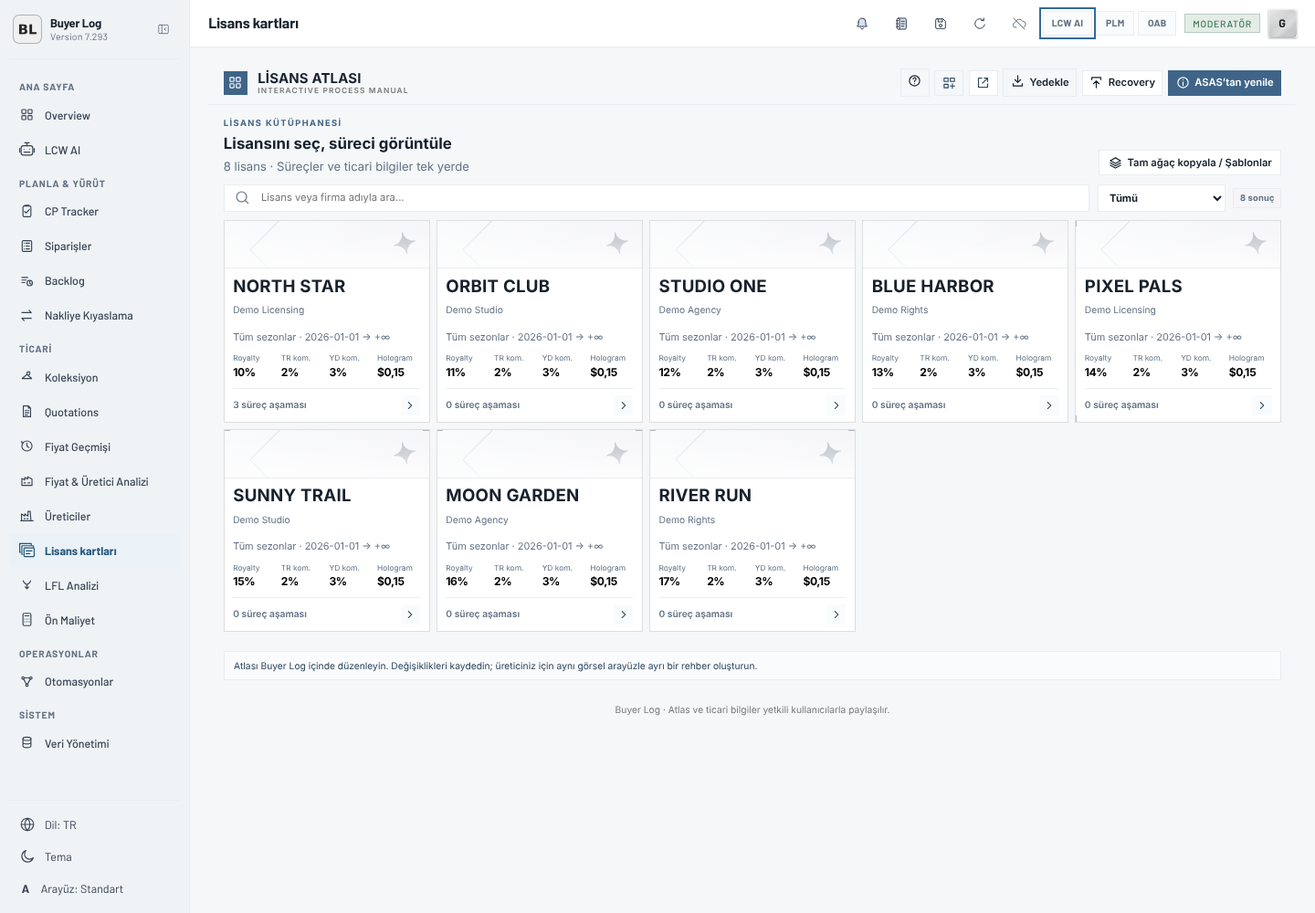
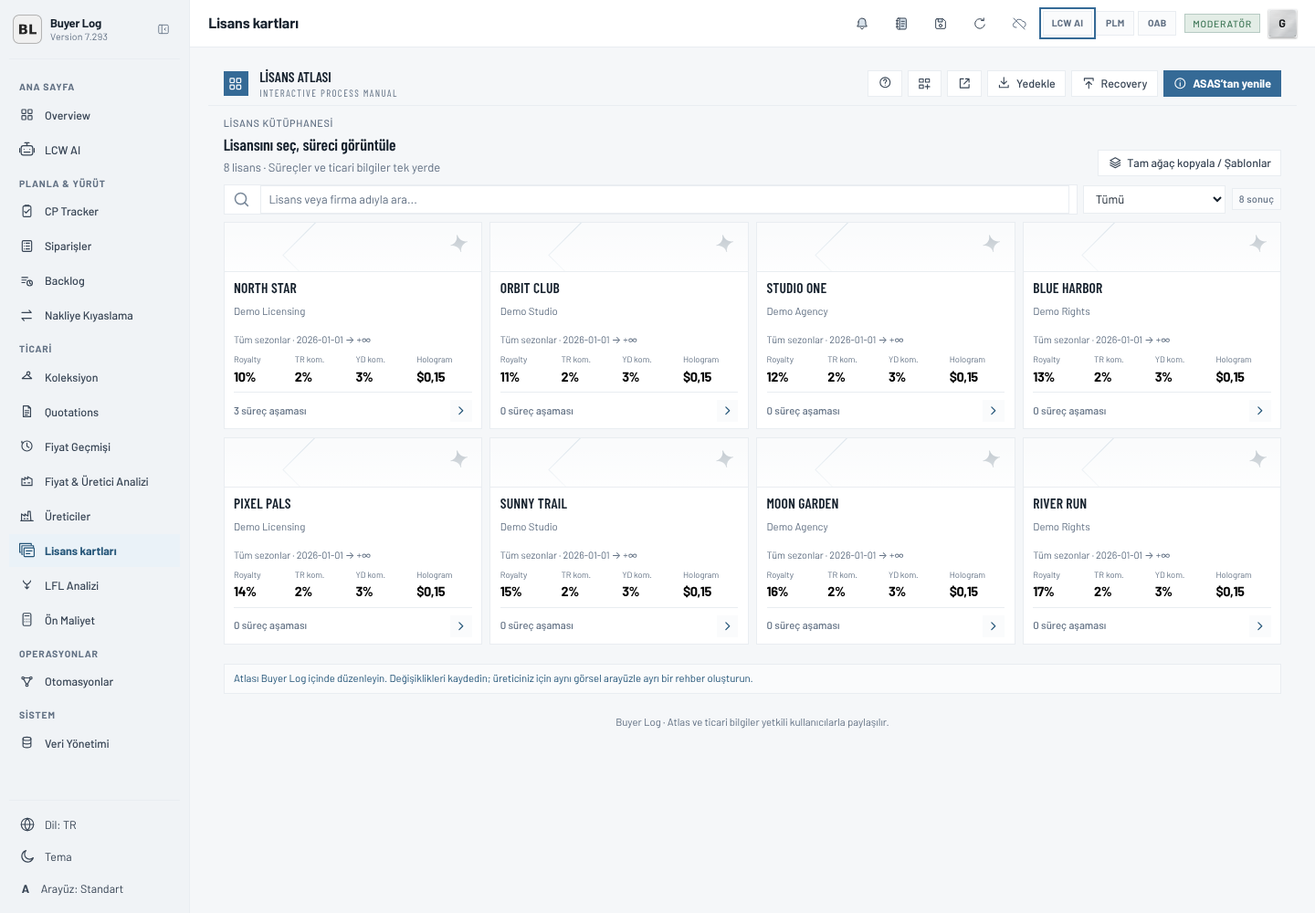
feat(license-atlas): Buyer Log interface for the License Atlas
The uploaded Atlas kept its own typography, oversized controls, heavy
weights and teal/navy colours. It now follows Buyer Log primitives:

- Barlow / Barlow Condensed inlined from design.css @font-face rules
  (sandbox CSP gains font-src data: only).
- Full parent theme tokens passed as --blt-*; surfaces, accents and
  selected states use them in light and dark themes.
- Runtime type scale maps every original font-size/weight rule onto the
  Buyer Log scale (12.5px base, 600 max weight) without forking the CSS.
- Buttons = .tbtn (28px), fields 30px, uppercase 10.5px captions,
  compact stage editor, drawer and tree; zoom follows the Arayüz setting.
- Release note + post-change screenshots; source-contract tests.

Claude-Session: https://claude.ai/code/session_01JqBFFYCeu33yFih1vzviSu

diff --git a/resources/app/public/license-atlas/integration.css b/resources/app/public/license-atlas/integration.css
@@ -26,59 +26,138 @@
 .bl-business input,.bl-business textarea{width:100%;min-width:0;padding:11px 12px;border:1px solid var(--line);border-radius:var(--radius);background:var(--bg);color:var(--ink)}.bl-business details{margin-top:24px}.bl-business summary{cursor:pointer;font-weight:750;margin-bottom:14px}
 .bl-recovery ul{max-height:35vh;overflow:auto;padding-left:20px}.bl-recovery li{padding:6px 0;border-bottom:1px solid var(--line)}.bl-recovery-error{color:var(--ink)}
 @media(max-width:600px){.bl-licensor{align-items:stretch;flex-direction:column;gap:6px}.drawer>.bl-licensor{margin:12px 17px}.bl-business .lcFormGrid{grid-template-columns:1fr}.nav-actions [data-action="export"]{display:inline-flex}.nav-actions [data-action="export"] .hide-mobile{display:none}.nav-actions [data-action="blRecovery"]{padding:8px}.nav-actions{gap:5px}.brandname{display:none}}
-/* Buyer Log density: the Atlas follows the parent UI scale (Arayüz) instead of its
-   original marketing proportions. Zoom keeps the long tail (Studio, map editors,
-   dialogs) consistent; the rules below remove oversized decoration. */
-body{zoom:var(--bl-density,.9)}
+/* =====================================================================
+   Buyer Log skin. The uploaded Atlas keeps its tree/workflow markup, but its
+   interface (type, controls, buttons, colours, density) follows Buyer Log:
+   Barlow / Barlow Condensed, 30px controls, hairline borders, steel-blue
+   accent and the parent's live theme tokens (--blt-*). integration.js maps
+   every original font-size/weight onto the Buyer Log scale (#bl-type-scale).
+   ===================================================================== */
+:root{--bl-body-font:"Barlow","Segoe UI",Arial,sans-serif;--bl-head-font:"Barlow Condensed","Barlow","Segoe UI",sans-serif;
+ --bl-paper:var(--blt-paper,var(--bg));--bl-card:var(--blt-card,var(--panel));--bl-field:var(--blt-card,var(--panel));--bl-ctl:30px;
+ --bl-t-ink:var(--blt-ink,var(--ink));--bl-t-ink2:var(--blt-ink2,var(--muted));--bl-t-muted:var(--blt-muted,var(--muted));--bl-t-line:var(--blt-line,var(--line));
+ --bl-t-acc:var(--blt-acc,var(--blue));--bl-t-acc-bg:var(--blt-acc-bg,var(--blue-soft));--bl-t-acc-ink:var(--blt-acc-ink,var(--blue));--bl-t-on-acc:var(--blt-on-acc,#fff);
+ --bl-t-red:var(--blt-red,#b42318);--bl-t-green:var(--blt-green,#177a4c)}
+body{zoom:var(--bl-density,1)}
+:root body{font:400 12.5px/1.45 var(--bl-body-font);background:var(--bl-paper);color:var(--bl-t-ink);letter-spacing:0}
+:root body :is(button,input,select,textarea){font-family:var(--bl-body-font)}
+:root body :is(h1,h2,h3,h4,.brandname,.cover-name){font-family:var(--bl-head-font)!important;font-weight:600!important;letter-spacing:.01em}
+
+/* Buttons = Buyer Log .tbtn */
+:root body :is(.btn,.map-stage-copy,.map-paste-stage,.map-add-stage-btn,.map-add-address-top,.map-section-heading button,.map-inline-footer button,.map-choice-actions button,.map-address-save,.guide-library-head button,.guide-remove,.select-add-option,.map-choice-bar button){
+ min-height:28px!important;height:auto;padding:4px 10px!important;border:1px solid var(--bl-t-line)!important;border-radius:0!important;background:var(--bl-card)!important;color:var(--bl-t-ink2)!important;
+ font:500 12px/1.2 var(--bl-body-font)!important;letter-spacing:0!important;box-shadow:none!important;transform:none!important;gap:6px}
+:root body :is(.btn,.map-stage-copy,.map-paste-stage,.map-add-stage-btn,.map-add-address-top,.map-section-heading button,.map-inline-footer button,.map-choice-actions button,.guide-library-head button,.select-add-option,.map-choice-bar button):not(:disabled):hover{border-color:var(--bl-t-acc)!important;color:var(--bl-t-ink)!important;background:var(--blt-card2,var(--bl-card))!important}
+:root body :is(.btn.primary,.btn.blue,.map-choice-actions .map-choice-save,.map-address-save){background:var(--bl-t-acc)!important;border-color:var(--bl-t-acc)!important;color:var(--bl-t-on-acc)!important;font-weight:600!important}
+:root body :is(.btn.primary,.btn.blue,.map-choice-actions .map-choice-save,.map-address-save):not(:disabled):hover{background:var(--blt-acc-hover,var(--bl-t-acc))!important;color:var(--bl-t-on-acc)!important}
+:root body .map-choice-bar button.selected{background:var(--bl-t-acc-bg)!important;border-color:var(--bl-t-acc)!important;color:var(--bl-t-acc-ink)!important;font-weight:600!important}
+:root body .btn svg{width:14px;height:14px;flex-basis:14px}
+:root body .btn.square{width:28px;padding:0!important}
+:root body :is(.map-move-tools button:not(.map-stage-copy):not(.map-paste-stage),.map-add-choice,.map-route-remove,.iconbtn,.tree-delete-mini,.map-address-creator-head button){min-width:28px!important;width:auto;height:var(--bl-ctl)!important;padding:0 6px!important;border:1px solid var(--bl-t-line)!important;border-radius:0!important;background:var(--bl-card)!important;color:var(--bl-t-ink2)!important;font-size:14px!important;font-weight:500!important;box-shadow:none!important}
+:root body :is(.map-move-tools button,.map-add-choice,.map-route-remove,.iconbtn):not(:disabled):hover{border-color:var(--bl-t-acc)!important;color:var(--bl-t-ink)!important}
+:root body :is(.map-route-remove,.map-move-tools .map-remove-stage,.map-move-tools .map-remove-confirm){color:var(--bl-t-red)!important}
+:root body .map-move-tools .map-stage-copy{height:var(--bl-ctl)!important;min-height:0!important}
+
+/* Fields = Buyer Log inputs */
+:root body :is(#app,#overlayRoot) :is(input:not([type=checkbox]):not([type=radio]):not([type=file]):not([type=range]),select,textarea){
+ min-height:var(--bl-ctl)!important;padding:4px 8px!important;border:1px solid var(--bl-t-line)!important;border-radius:0!important;background:var(--bl-field)!important;color:var(--bl-t-ink)!important;
+ font:400 12.5px/1.35 var(--bl-body-font)!important;letter-spacing:0!important;box-shadow:none!important}
+:root body :is(#app,#overlayRoot) :is(input:not([type=checkbox]):not([type=radio]):not([type=file]):not([type=range]),select){height:var(--bl-ctl)!important}
+:root body :is(#app,#overlayRoot) textarea{min-height:48px!important;resize:vertical}
+:root body :is(#app,#overlayRoot) :is(input,select,textarea):focus{border-color:var(--bl-t-acc)!important;outline:0!important}
+:root body :is(#app,#overlayRoot) :is(input,textarea)::placeholder{color:var(--bl-t-muted)!important;opacity:1}
+:root body :is(#app,#overlayRoot) :is(input,select,textarea):disabled{background:transparent!important;color:var(--bl-t-ink2)!important}
+:root body .searchbox{min-height:var(--bl-ctl)!important;padding:0 8px!important;border:1px solid var(--bl-t-line)!important;background:var(--bl-field)!important;border-radius:0!important;box-shadow:none!important}
+:root body #app .searchbox input{border:0!important;height:28px!important;min-height:0!important;padding:0 4px!important;background:transparent!important}
+:root body :is(input[type=checkbox],input[type=radio]){accent-color:var(--bl-t-acc);width:14px!important;height:14px!important}
+
+/* Labels = Buyer Log field captions */
+:root body :is(.field label,.map-edit-focus label,.map-approve-group>span,.map-choice-create label,.map-address-creator-fields label,.bl-business .lcField>span,.tinycaps,.overline,.eyebrow,.mini-title){
+ font:500 10.5px/1.3 var(--bl-body-font)!important;letter-spacing:.06em!important;text-transform:uppercase;color:var(--bl-t-muted)!important}
+:root body .map-edit-focus label{gap:4px!important}
+:root body .bl-route-instructions>span{font:400 12px/1.3 var(--bl-body-font)!important;text-transform:none;letter-spacing:0;color:var(--bl-t-ink);display:flex;align-items:center;gap:6px}
+:root body :is(.map-checkbox,.map-test-toolbar .map-checkbox,.share-switch,.laCheck){font:400 12px/1.3 var(--bl-body-font)!important;text-transform:none!important;letter-spacing:0!important;color:var(--bl-t-ink)!important}
+:root body :is(.map-approve-group small,.hint,.muted-tip,.translation-help){font-size:11px!important;color:var(--bl-t-muted)!important;text-transform:none!important;letter-spacing:0!important;font-weight:400!important}
+
+/* Surfaces and accent colours from the parent theme (no teal/navy literals) */
+:root body :is(.surface,.license-card,.side-card,.tree-foot-card,.tree-focus,.map-edit-focus,.drawer,.modal-box,.studio-panel,.bl-commerce,.bl-licensor,.map-guide-picker,.tree-branch){background:var(--bl-card)!important;border-color:var(--blt-hair,var(--bl-t-line))!important;box-shadow:none!important;border-radius:0!important}
+:root body :is(.map-edit-route,.map-test-toolbar,.map-inline-empty,.edit-stage-heading,.sub-editor,.address-block,.no-data){background:var(--blt-card2,var(--bl-card))!important;border-color:var(--bl-t-line)!important;border-radius:0!important}
+:root body :is(.map-choice-create,.map-address-creator){background:var(--bl-card)!important;border-color:var(--bl-t-acc)!important}
+:root body .tree-node{border-color:var(--bl-t-line)!important;background:var(--bl-card)!important;box-shadow:none!important}
+:root body .tree-node:hover{border-color:var(--bl-t-acc)!important;transform:none!important}
+:root body .tree-node.active{border:1px solid var(--bl-t-acc)!important;background:var(--bl-t-acc-bg)!important;transform:none!important;box-shadow:none!important}
+:root body .tree-node-glyph{background:var(--bl-t-acc-bg)!important;border-color:var(--bl-t-line)!important;color:var(--bl-t-acc-ink)!important}
+:root body .tree-node.active .tree-node-glyph{background:var(--bl-t-acc)!important;color:var(--bl-t-on-acc)!important;border-color:var(--bl-t-acc)!important}
+:root body .tree-viewport{background:var(--bl-paper)!important}
+:root body .map-inline-footer{color:var(--bl-t-green)!important}
+:root body .map-checkbox input{accent-color:var(--bl-t-acc)}
+:root body .drawer-tabs button{font:500 12px/1.2 var(--bl-body-font)!important;color:var(--bl-t-ink2)!important;border-bottom-width:2px!important}
+:root body .drawer-tabs button.active{color:var(--bl-t-acc-ink)!important;border-bottom-color:var(--bl-t-acc)!important}
+:root body :is(.tag,.route-chip,.method-mini,.progresspill,.route-seq,.cover-category,.lcBadge){border-radius:0!important;font-weight:500!important}
+:root body .toast{border-radius:0!important;background:var(--blt-ink,#1d1f20)!important;color:var(--bl-paper)!important;font:500 12px/1.4 var(--bl-body-font)!important;padding:8px 12px!important;box-shadow:var(--blt-shadow-2,none)!important}
+:root body .toast.error{background:var(--bl-t-red)!important;color:#fff!important}
+
+/* Density */
 html body .hero{display:none}
-.shell{padding:0 18px}
-.topbar,body.dark .topbar{height:50px}
-.brandmark,body.dark .brandmark{height:28px;width:28px}.brandmark svg{width:16px;height:16px}
-.brandname{font-size:16px}.brandname small{margin-top:2px}
-.btn{min-height:30px;padding:5px 10px;gap:6px}.btn.square{width:30px}
-.bl-savebar{top:50px;padding:6px 18px}
-.section-head{margin:14px 0 10px}.section-head h2{font-size:18px}
-.toolbar{margin-bottom:10px}.searchbox{min-height:32px}.selectbox{height:32px}
-.license-grid{grid-template-columns:repeat(auto-fill,minmax(230px,1fr));gap:8px;padding-bottom:16px}
-.cover{height:56px}html body .license-card .cover.has-cover-image{height:100px}html body .license-card .cover.has-cover-image img{padding:6px 8px}.cover-decor{width:56px;height:56px;right:10px;top:4px}.cover-symbol{font-size:34px;right:14px;top:10px}
-.cover-name{font-size:17px;bottom:8px;left:10px;right:10px}.cover-category{top:6px;left:8px}.cover-fallback{font-size:20px}
-html body .license-card .card-meta{min-height:0;padding:9px 10px 8px}
-.card-agency{margin-bottom:6px}.card-meta .bl-rates{margin:8px 0}.card-meta .bl-rates b{font-size:13px}
-.note-band{margin:6px 0 16px;padding:8px 11px}
-.crumbs{margin:12px 0 10px}
-.detail-head{margin-bottom:12px;gap:14px}.license-identity{gap:12px}
-.identity-art{width:48px;height:48px}.identity-art strong{font-size:22px;letter-spacing:-1px}
-html body .identity-desc h1{font-size:24px}.identity-desc p{margin-top:2px}.identity-desc .tagline{margin-bottom:3px}
-.bl-licensor{margin:0 0 10px;padding:6px 10px;gap:10px}.bl-licensor select{padding:5px 8px}
-.bl-commerce{margin:0 0 14px;padding:10px 14px;gap:14px}.bl-commerce-title h3{font-size:15px;margin:2px 0}
-.bl-rates{gap:10px}.bl-rates b{font-size:15px}
-.surface.map-panel,.map-panel{padding:16px 18px;margin-bottom:14px}
-html body .tree-section-heading{padding:14px 18px 12px}
-html body .tree-section-heading h2{font-size:20px;margin:3px 0 2px}
-.tree-canvas{padding:14px 18px 20px}
-.tree-row{padding:12px 0}
-html body .tree-node{min-height:64px!important;padding:10px 30px 10px 10px}
-.tree-node-glyph{width:32px;height:32px}
-html body .tree-branch{min-height:52px!important}
-.tree-focus{padding:16px;margin:10px auto 6px}
-.tree-foot-grid{margin:12px 0 18px;gap:12px}.tree-foot-card{padding:14px}
-.main-panel{padding:18px}.side-card{padding:16px}
-.footer{padding:10px 0 20px}
-.drawer-head{padding:14px 18px 10px}.drawer-head h2{font-size:20px}
-.drawer-tabs{padding:0 18px}.drawer-tabs button{padding:9px 10px}
-.drawer-body{padding:14px 18px 18px}.drawer-footer{padding:10px 18px}
-.drawer>.bl-licensor{margin:8px 18px}
-.field{margin-bottom:9px;gap:4px}.field input,.field select,.field textarea{min-height:32px;padding:6px 9px}
-.bl-business .lcContract{padding:12px;margin:10px 0}.bl-business .lcContractHead{margin-bottom:8px}
-.bl-business .lcFormGrid{gap:8px 10px;grid-template-columns:repeat(4,minmax(0,1fr))}
+.shell{padding:0 16px}
+.topbar,body.dark .topbar{height:46px!important}
+.brandmark,body.dark .brandmark{height:26px;width:26px}.brandmark svg{width:15px;height:15px}
+.bl-savebar{top:46px;padding:6px 16px}
+.section-head{margin:12px 0 8px}.toolbar{margin-bottom:8px;gap:6px}
+.license-grid{grid-template-columns:repeat(auto-fill,minmax(220px,1fr));gap:8px;padding-bottom:14px}
+.cover{height:52px}html body .license-card .cover.has-cover-image{height:96px}html body .license-card .cover.has-cover-image img{padding:6px 8px}.cover-decor{width:52px;height:52px;right:10px;top:2px}.cover-symbol{right:14px;top:10px}
+.cover-name{bottom:7px;left:10px;right:10px}.cover-category{top:6px;left:8px}
+html body .license-card .card-meta{min-height:0;padding:8px 10px 7px}
+.card-agency{margin-bottom:5px}.card-meta .bl-rates{margin:6px 0}.card-meta .bl-rates span{white-space:nowrap;overflow:hidden;text-overflow:ellipsis}
+.note-band{margin:6px 0 14px;padding:7px 10px}
+.crumbs{margin:10px 0 8px}
+.detail-head{margin-bottom:10px;gap:12px}.license-identity{gap:10px}
+.identity-art{width:44px;height:44px}.identity-desc p{margin-top:2px}.identity-desc .tagline{margin-bottom:3px}
+.bl-licensor{margin:0 0 8px;padding:5px 10px;gap:10px}
+.bl-commerce{margin:0 0 12px;padding:9px 12px;gap:12px}.bl-commerce-title h3{margin:2px 0}
+.bl-rates{gap:10px}
+.surface.map-panel,.map-panel{padding:14px 16px;margin-bottom:12px}
+html body .tree-section-heading{padding:12px 16px 10px;gap:12px}
+html body .tree-section-heading h2{margin:2px 0}
+.tree-canvas{padding:12px 16px 18px}
+.tree-row{padding:10px 0}
+html body .tree-node{min-height:56px!important;padding:8px 28px 8px 8px}
+.tree-node-glyph{width:28px;height:28px}
+html body .tree-branch{min-height:46px!important;padding:8px 10px}
+.tree-focus{padding:14px;margin:8px auto 6px}
+.tree-foot-grid{margin:10px 0 16px;gap:10px}.tree-foot-card{padding:12px}
+.main-panel{padding:16px}.side-card{padding:14px}
+.footer{padding:8px 0 18px}
+/* Stage editor (map-edit-focus) */
+html body .map-edit-focus{padding:14px 16px!important}
+html body .map-edit-focus .tree-focus-head{padding-bottom:10px;gap:10px}
+.map-quick-meta{gap:12px;padding:10px 0}
+.map-inline-grid{gap:14px;padding-top:10px}
+.map-section-heading{margin-bottom:6px;gap:8px}
+.map-route-stack{gap:6px}
+html body .map-edit-route{padding:8px 8px 8px}
+html body .map-route-core{gap:6px;padding-top:12px}
+html body .map-route-extras{gap:6px;margin-top:6px}
+.map-approval-notes{margin-top:10px}
+.map-test-toolbar{margin-top:8px;padding:8px;gap:10px}
+.map-inline-footer{margin-top:12px;padding-top:8px}
+.map-choice-create{margin:6px 0;padding:8px;gap:6px}
+.map-address-creator{margin:8px 0 10px;padding:10px}
+.map-guide-picker>summary{padding:8px 10px}
+.compact-stage-heading{gap:8px;padding-bottom:8px}.compact-stage-icon{width:28px;height:28px}
+/* Drawer, fields, dialogs */
+.drawer-head{padding:12px 16px 8px}.drawer-tabs{padding:0 16px}.drawer-tabs button{padding:8px 10px}
+.drawer-body{padding:12px 16px 16px}.drawer-footer{padding:8px 16px}
+.drawer>.bl-licensor{margin:8px 16px}
+.field{margin-bottom:8px;gap:4px}.field-grid{gap:10px}
+.bl-business .lcContract{padding:10px;margin:8px 0;border-radius:0!important}.bl-business .lcContractHead{margin-bottom:6px}
+.bl-business .lcFormGrid{gap:6px 10px;grid-template-columns:repeat(4,minmax(0,1fr))}
 .bl-business .lcFormGrid .lcFull{grid-column:1/-1}
-.bl-business input,.bl-business textarea{padding:6px 9px}
-.bl-business details{margin-top:14px}
-.bl-business .lcNotice{border:1px solid var(--blue);background:var(--blue-soft);padding:8px 10px;margin:10px 0 0;font-size:12px}
-.modal-box{padding:20px}.modal-box h2{font-size:19px}
-.card-meta .bl-rates span{white-space:nowrap;overflow:hidden;text-overflow:ellipsis}
-.map-move-tools .map-stage-copy{font-size:12px}
-html body .tree-focus-head h3,html body .map-edit-focus .tree-focus-head h3{font-size:20px}.compact-stage-copy h2{font-size:18px}
-@media(max-width:1500px){.nav-actions .hide-tablet{display:none}.nav-actions .btn{padding:5px 8px}}
+.bl-business details{margin-top:12px}
+.bl-business .lcNotice{border:1px solid var(--bl-t-acc);background:var(--bl-t-acc-bg);color:var(--bl-t-acc-ink);padding:7px 10px;margin:8px 0 0;font-size:12px}
+.bl-business .lcBadge{color:var(--bl-t-acc-ink)}
+.modal-box{padding:18px}
+.edit-stage-body{padding:12px}.sub-editor{padding:10px}
+@media(max-width:1500px){.nav-actions .hide-tablet{display:none}}
 @media(max-width:900px){.bl-business .lcFormGrid{grid-template-columns:repeat(2,minmax(0,1fr))}}
-@media(max-width:600px){.shell{padding:0 12px}.bl-business .lcFormGrid{grid-template-columns:1fr}.cover{height:56px}}
+@media(max-width:600px){.shell{padding:0 10px}.bl-business .lcFormGrid{grid-template-columns:1fr}}

diff --git a/resources/app/public/license-atlas/integration.js b/resources/app/public/license-atlas/integration.js
@@ -145,11 +145,13 @@
  function applyEnvironment(env){if(!env)return;
   const next=env.locale==='en'?'en':'tr',changed=locale!==next;locale=next;document.documentElement.lang=next;
   document.documentElement.dataset.theme=env.theme;document.body.classList.toggle('dark',env.theme==='dark');document.documentElement.style.colorScheme=env.theme==='dark'?'dark':'light';
-  const t=env.tokens||{},aliases={'--bg':'--paper','--blue-soft':'--card2','--panel':'--card','--navy':'--acc','--blue':'--acc','--shadow':'--shadow-2','--radius':'--r-lg'};
+  const t=env.tokens||{},aliases={'--bg':'--paper','--blue-soft':'--card2','--panel':'--card','--navy':'--acc','--blue':'--acc','--shadow':'--shadow-2','--radius':'--r-lg','--bl-acc':'--acc','--bl-ink':'--acc-ink','--bl-sub':'--muted','--bl-card2':'--card2','--bl-hair':'--hair','--bl-on':'--on-acc','--line2':'--line2','--mint':'--green'};
+  // Every Buyer Log token is also available verbatim as --blt-<name> for the skin layer.
+  for(const [k,v] of Object.entries(t))document.documentElement.style.setProperty('--blt-'+k.slice(2),v);
   for(const k of ['--bg','--ink','--muted','--line'])if(t[k]){document.documentElement.style.setProperty(k,t[k]);document.body.style.setProperty(k,t[k]);}
   for(const [to,from] of Object.entries(aliases))if(t[from]){document.documentElement.style.setProperty(to,t[from]);document.body.style.setProperty(to,t[from]);}
-  // The Atlas is authored at 14px; scale it to Buyer Log's current base font (Arayüz setting).
-  const base=parseFloat(t['--fs-base']);if(Number.isFinite(base)&&base>0)document.documentElement.style.setProperty('--bl-density',String(Math.min(1.15,Math.max(.8,(base+.1)/14))));
+  // The skin is authored at Buyer Log's standard 12.5px; follow the Arayüz size setting.
+  const base=parseFloat(t['--fs-base']);if(Number.isFinite(base)&&base>0)document.documentElement.style.setProperty('--bl-density',String(Math.min(1.3,Math.max(.85,base/12.5))));
   if(changed){chosen()?render():home();if(editor){renderEditor();send('businessRefresh');}}decorate();
  }
  document.addEventListener('change',event=>{const target=event.target;if(!target.matches('[data-bl-licensor]'))return;
@@ -187,6 +189,26 @@
   }
  });
  window.addEventListener('beforeunload',event=>{if(dirty){event.preventDefault();event.returnValue='';}});
+ // Buyer Log type scale: the uploaded Atlas declares its own 14–78px sizes and
+ // 750–900 weights in ~1100 rules. Rather than fork that CSS, derive one override
+ // per rule at runtime so every view (tree, editors, Studio, dialogs) reads like Buyer Log.
+ (function buyerLogTypeScale(){
+  const size=px=>px<=10?10.5:px<=11?11:px<=12.5?12:px<=14?12.5:px<=17?13.5:px<=21?15:px<=26?17:px<=40?20:24;
+  const px=value=>{const all=[...String(value||'').matchAll(/(-?[\d.]+)px/g)].map(m=>+m[1]);return all.length?Math.max(...all):null;};
+  const out=[];
+  function walk(rules,wrap){for(const rule of rules){
+   if(rule.cssRules&&rule.media){walk(rule.cssRules,`@media ${rule.media.mediaText}`);continue;}
+   if(!rule.style||!rule.selectorText)continue;const st=rule.style,decl=[];
+   const fs=px(st.getPropertyValue('font-size'));if(fs!=null&&fs>0)decl.push(`font-size:${size(fs)}px!important`);
+   const fw=parseInt(st.getPropertyValue('font-weight'),10);if(fw>=650)decl.push('font-weight:600!important');else if(fw>=550)decl.push('font-weight:500!important');
+   const ls=parseFloat(st.getPropertyValue('letter-spacing'));if(ls<0)decl.push('letter-spacing:0!important');
+   if(st.getPropertyValue('font-family')&&!/mono|Cascadia|Consolas/i.test(st.getPropertyValue('font-family')))decl.push(`font-family:${/h[1-4]\b|head|title|brandname|cover-name|identity-desc/i.test(rule.selectorText)?'var(--bl-head-font)':'var(--bl-body-font)'}!important`);
+   if(decl.length)out.push(wrap?`${wrap}{${rule.selectorText}{${decl.join(';')}}}`:`${rule.selectorText}{${decl.join(';')}}`);
+  }}
+  for(const sheet of document.styleSheets){const node=sheet.ownerNode;if(!node||['bl-fonts','bl-integration'].includes(node.id))continue;try{walk(sheet.cssRules,'');}catch(_){}}
+  const style=document.createElement('style');style.id='bl-type-scale';style.textContent=out.join('\n');
+  const integration=document.getElementById('bl-integration');(integration?.parentNode||document.head).insertBefore(style,integration||null);
+ })();
  // Start without business data. Only the parent can populate the sandbox.
  db={version:2,licenses:[]};home();parent.postMessage({wire,action:'ready'},'*');
 })();

diff --git a/resources/app/tests/royalty-precision-license-cards-v20261021.test.js b/resources/app/tests/royalty-precision-license-cards-v20261021.test.js
@@ -122,12 +122,12 @@ test('Lisans Atlası Buyer Log arayüz ölçeğini izler ve büyük karşılama 
   const css = read('public/license-atlas/integration.css');
   const shell = read('public/license-atlas-shell.js');
   const bridge = read('public/license-atlas/integration.js');
-  assert.match(css, /body\{zoom:var\(--bl-density,\.9\)\}/);
+  assert.match(css, /body\{zoom:var\(--bl-density,1\)\}/);
   assert.match(css, /html body \.hero\{display:none\}/);
-  assert.match(css, /\.cover\{height:56px\}/);
+  assert.match(css, /\.cover\{height:52px\}/);
   assert.match(shell, /font-size:var\(--fs-base,12\.5px\)/);
   assert.match(shell, /attributeFilter:\['data-theme','data-font-step','style','lang'\]/);
-  assert.match(bridge, /setProperty\('--bl-density'/);
+  assert.match(bridge, /setProperty\('--bl-density',String\(Math\.min\(1\.3,Math\.max\(\.85,base\/12\.5\)\)\)\)/);
   assert.match(read('public/perf-runtime.js'), /'license-cards-engine\.js\?rev=2'.*'license-atlas-shell\.js\?rev=2','license-cards\.js\?rev=4'/);
 });
 
@@ -146,11 +146,35 @@ test('yeni dönemin başlangıcı değişince otomatik kapatılan dönem onu izl
 test('kart görseli yüklenebilir: CSP blob önizlemesine izin verir, bildirim kaydetmeyi hatırlatır', () => {
   const html = read('public/license-atlas/index.html');
   const csp = html.match(/<meta http-equiv="Content-Security-Policy" content="([^"]+)"/)[1];
-  assert.match(csp, /img-src data: blob:;/);
+  assert.match(csp, /img-src data: blob:; font-src data:;/);
   assert.match(csp, /connect-src 'none'/);
   assert.match(csp, /default-src 'none'/);
   assert.match(html, /const objectURL=URL\.createObjectURL\(file\),img=new Image\(\);/);
   const bridge = read('public/license-atlas/integration.js');
   assert.match(bridge, /'Lisans görseli kaydedildi\.':txt\('Görsel eklendi\. Atlası kaydedin\.','Image added\. Save the atlas\.'\)/);
-  assert.match(read('public/license-atlas/integration.css'), /\.license-card \.cover\.has-cover-image\{height:100px\}/);
+  assert.match(read('public/license-atlas/integration.css'), /\.license-card \.cover\.has-cover-image\{height:96px\}/);
+});
+
+test('Lisans Atlası Buyer Log arayüz dilini kullanır: Barlow, 30px alanlar, tema token’ları, tip ölçeği', () => {
+  const css = read('public/license-atlas/integration.css');
+  const shell = read('public/license-atlas-shell.js');
+  const bridge = read('public/license-atlas/integration.js');
+  // Fonts: same Barlow files/ranges as design.css, inlined because the sandbox only allows font-src data:.
+  assert.match(shell, /function buyerLogFonts\(\)\{/);
+  assert.match(shell, /rule\.type===CSSRule\.FONT_FACE_RULE&&\/Barlow\//);
+  assert.match(shell, /<style id="bl-fonts">\$\{fonts\}<\/style><style id="bl-integration">\$\{css\}<\/style>/);
+  for (const token of ['--ink2', '--acc-bg', '--acc-ink', '--on-acc', '--hair', '--line2', '--red']) assert.ok(shell.includes(`'${token}'`), token);
+  assert.match(bridge, /setProperty\('--blt-'\+k\.slice\(2\),v\)/);
+  // Type scale derived from every original rule, inserted before the integration layer.
+  assert.match(bridge, /function buyerLogTypeScale\(\)\{/);
+  assert.match(bridge, /if\(fw>=650\)decl\.push\('font-weight:600!important'\)/);
+  assert.match(bridge, /\['bl-fonts','bl-integration'\]\.includes\(node\.id\)/);
+  // Controls, buttons and labels match Buyer Log primitives.
+  assert.match(css, /--bl-ctl:30px/);
+  assert.match(css, /--bl-body-font:"Barlow"/);
+  assert.match(css, /:root body :is\(#app,#overlayRoot\) :is\(input:not\(\[type=checkbox\]\)/);
+  assert.match(css, /font:500 12px\/1\.2 var\(--bl-body-font\)!important/);
+  assert.match(css, /font:500 10\.5px\/1\.3 var\(--bl-body-font\)!important;letter-spacing:\.06em!important;text-transform:uppercase/);
+  assert.match(css, /\.map-choice-bar button\.selected\{background:var\(--bl-t-acc-bg\)!important/);
+  assert.doesNotMatch(css.slice(css.indexOf('Buyer Log skin')), /#427f94|#39758a|#dceeed/);
 });

diff --git a/resources/app/public/license-atlas-shell.js b/resources/app/public/license-atlas-shell.js
@@ -25,10 +25,29 @@
  async function mount(target){
   try{
    if(!componentPending)componentPending=Promise.all(['index.html','integration.css','integration.js'].map(async name=>{const response=await fetch(`license-atlas/${name}`,{credentials:'same-origin',cache:'no-store'});if(!response.ok)throw new Error('ATLAS_COMPONENT_LOAD');return response.text();})).catch(error=>{componentPending=null;throw error;});
-   const [html,css,js]=await componentPending;
+   const [html,css,js]=await componentPending,fonts=await buyerLogFonts();
    if(frame!==target)return;
-   target.srcdoc=html.replace('<link rel="stylesheet" href="integration.css">',()=>`<style>${css}</style>`).replace('<script src="integration.js"></script>',()=>`<script>${js}</script>`);
+   target.srcdoc=html.replace('<link rel="stylesheet" href="integration.css">',()=>`<style id="bl-fonts">${fonts}</style><style id="bl-integration">${css}</style>`).replace('<script src="integration.js"></script>',()=>`<script>${js}</script>`);
   }catch(error){host.querySelector('.lcAtlasCommerce').textContent=ctx.failMessage(error);}
+ }
+ // The sandbox has an opaque origin and font-src data: only, so Buyer Log's own
+ // Barlow faces (same files and unicode ranges as design.css) travel inline.
+ let fontsPending=null;
+ function buyerLogFonts(){
+  if(!fontsPending)fontsPending=(async()=>{
+   const faces=[];
+   for(const sheet of document.styleSheets){let rules;try{rules=sheet.cssRules;}catch(_){continue;}
+    for(const rule of rules||[])if(rule.type===CSSRule.FONT_FACE_RULE&&/Barlow/.test(rule.style.getPropertyValue('font-family')))faces.push(rule);}
+   const css=await Promise.all(faces.map(async rule=>{
+    const url=(rule.style.getPropertyValue('src').match(/url\(["']?([^"')]+)["']?\)/)||[])[1];if(!url)return '';
+    const response=await fetch(new URL(url,rule.parentStyleSheet.href||location.href),{credentials:'same-origin'});if(!response.ok)return '';
+    const blob=new Blob([await response.arrayBuffer()],{type:'font/woff2'}),data=await new Promise((resolve,reject)=>{const reader=new FileReader();reader.onload=()=>resolve(reader.result);reader.onerror=reject;reader.readAsDataURL(blob);});
+    const range=rule.style.getPropertyValue('unicode-range');
+    return `@font-face{font-family:${rule.style.getPropertyValue('font-family')};font-style:normal;font-weight:${rule.style.getPropertyValue('font-weight')||400};font-display:swap;src:url("${data}") format("woff2");${range?`unicode-range:${range};`:''}}`;
+   }));
+   return css.join('\n');
+  })().catch(()=>'');
+  return fontsPending;
  }
  async function ensureLibrary(){if(library)return;if(!libraryPending)libraryPending=ctx.api('/api/license-cards/atlas-library').then(v=>{library=v;}).catch(error=>{library={licenses:[]};throw error;}).finally(()=>libraryPending=null);await libraryPending;}
  async function sync(){
@@ -69,7 +88,7 @@
  }
  function environment(){
   const style=getComputedStyle(document.documentElement),tokens={};
-  for(const name of ['--bg','--paper','--card2','--card','--ink','--muted','--line','--acc','--shadow-1','--shadow-2','--r-md','--r-lg']){const value=style.getPropertyValue(name).trim();if(value)tokens[name]=value;}
+  for(const name of ['--bg','--paper','--card2','--card2-strong','--card','--ink','--ink2','--muted','--line','--line2','--hair','--acc','--acc-bg','--acc-ink','--acc-hover','--on-acc','--red','--red-bg','--green','--green-bg','--shadow-1','--shadow-2','--shadow-3','--r-md','--r-lg']){const value=style.getPropertyValue(name).trim();if(value)tokens[name]=value;}
   // Custom properties stay unresolved calc() strings; measure the effective UI base font.
   const probe=document.createElement('span');probe.style.cssText='position:absolute;visibility:hidden;font-size:var(--fs-base,12.5px)';document.body.append(probe);
   const base=parseFloat(getComputedStyle(probe).fontSize);probe.remove();if(Number.isFinite(base)&&base>0)tokens['--fs-base']=base+'px';

diff --git a/resources/app/public/license-atlas/index.html b/resources/app/public/license-atlas/index.html
@@ -1,6 +1,6 @@
 <!doctype html>
 <html lang="tr">
-<head><meta http-equiv="Content-Security-Policy" content="default-src 'none'; script-src 'self' 'unsafe-inline'; style-src 'self' 'unsafe-inline'; img-src data: blob:; connect-src 'none'; base-uri 'none'; form-action 'none'">
+<head><meta http-equiv="Content-Security-Policy" content="default-src 'none'; script-src 'self' 'unsafe-inline'; style-src 'self' 'unsafe-inline'; img-src data: blob:; font-src data:; connect-src 'none'; base-uri 'none'; form-action 'none'">
 <meta charset="utf-8">
 <meta name="viewport" content="width=device-width, initial-scale=1">
 <meta name="theme-color" content="#f5f5f0">
